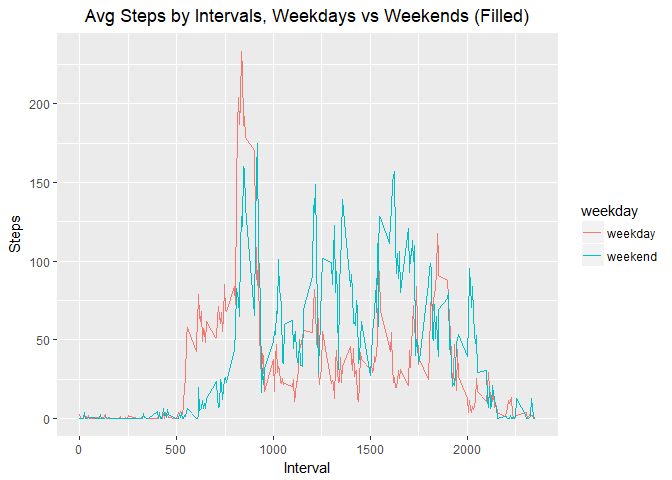
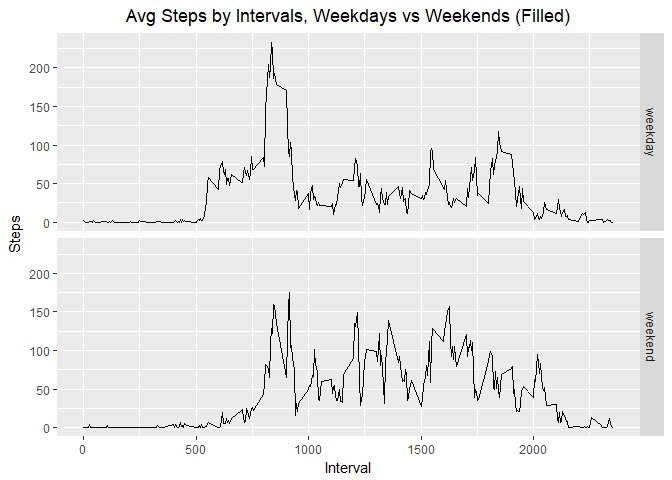
fixed issues with some graphs

diff --git a/PA1_template.html b/PA1_template.html
@@ -155,8 +155,8 @@ daySteps &lt;- aggregate(steps ~ date, data=activityNoNA, FUN=sum)</code></pre>
 </div>
 <div id="histogram-of-the-total-number-of-steps-taken-each-day" class="section level3">
 <h3>Histogram of the total number of steps taken each day</h3>
-<pre class="r"><code>hist(daySteps$steps, xlab = &quot;Number of Steps Taken per Day&quot;, ylab=&quot;Frequency&quot;, main = &quot;Total Steps Taken per Day vs Frequncy&quot;)</code></pre>
[1 lines of base64/hex data omitted]
+<pre class="r"><code>hist(daySteps$steps, ylim = c(0,30), xlab = &quot;Number of Steps Taken per Day&quot;, ylab=&quot;Frequency&quot;, main = &quot;Total Steps Taken per Day vs Frequncy&quot;)</code></pre>
[1 lines of base64/hex data omitted]
 </div>
 <div id="mean-and-median-of-the-total-number-of-steps-taken-per-day" class="section level3">
 <h3>Mean and median of the total number of steps taken per day</h3>
@@ -243,11 +243,12 @@ activityFill$dayOfWeek &lt;- as.factor(activityFill$dayOfWeek)</code></pre>
 <h3>Weekday vs Weekend patterns</h3>
 <pre class="r"><code>avgDayStepsFill &lt;- aggregate(steps~interval+dayOfWeek, data=activityFill, FUN=mean)
 
-ggplot(data=avgDayStepsFill ,aes(group=dayOfWeek)) + 
-  geom_line(aes(x=interval, y=steps, color=dayOfWeek)) + 
-  labs(x=&quot;Interval&quot;, y=&quot;Steps&quot;, title=&quot;Avg Steps by Intervals, Weekdays vs Weekends (Filled)&quot;, color=avgDayStepsFill$dayOfWeek) + 
+ggplot(data=avgDayStepsFill) + 
+  geom_line(aes(x=interval, y=steps)) + 
+  facet_grid(dayOfWeek ~ .) +
+  labs(x=&quot;Interval&quot;, y=&quot;Steps&quot;, title=&quot;Avg Steps by Intervals, Weekdays vs Weekends (Filled)&quot;) + 
   theme(plot.title = element_text(hjust = 0.5))</code></pre>
[2 lines of base64/hex data omitted]
 </div>
 </div>
 

diff --git a/PA1_template.md b/PA1_template.md
@@ -55,7 +55,7 @@ daySteps <- aggregate(steps ~ date, data=activityNoNA, FUN=sum)
 ### Histogram of the total number of steps taken each day
 
 ```r
-hist(daySteps$steps, xlab = "Number of Steps Taken per Day", ylab="Frequency", main = "Total Steps Taken per Day vs Frequncy")
+hist(daySteps$steps, ylim = c(0,30), xlab = "Number of Steps Taken per Day", ylab="Frequency", main = "Total Steps Taken per Day vs Frequncy")
 ```
 
 ![](PA1_template_files/figure-html/unnamed-chunk-5-1.png)<!-- -->
@@ -189,9 +189,10 @@ activityFill$dayOfWeek <- as.factor(activityFill$dayOfWeek)
 ```r
 avgDayStepsFill <- aggregate(steps~interval+dayOfWeek, data=activityFill, FUN=mean)
 
-ggplot(data=avgDayStepsFill ,aes(group=dayOfWeek)) + 
-  geom_line(aes(x=interval, y=steps, color=dayOfWeek)) + 
-  labs(x="Interval", y="Steps", title="Avg Steps by Intervals, Weekdays vs Weekends (Filled)", color=avgDayStepsFill$dayOfWeek) + 
+ggplot(data=avgDayStepsFill) + 
+  geom_line(aes(x=interval, y=steps)) + 
+  facet_grid(dayOfWeek ~ .) +
+  labs(x="Interval", y="Steps", title="Avg Steps by Intervals, Weekdays vs Weekends (Filled)") + 
   theme(plot.title = element_text(hjust = 0.5))
 ```
 
